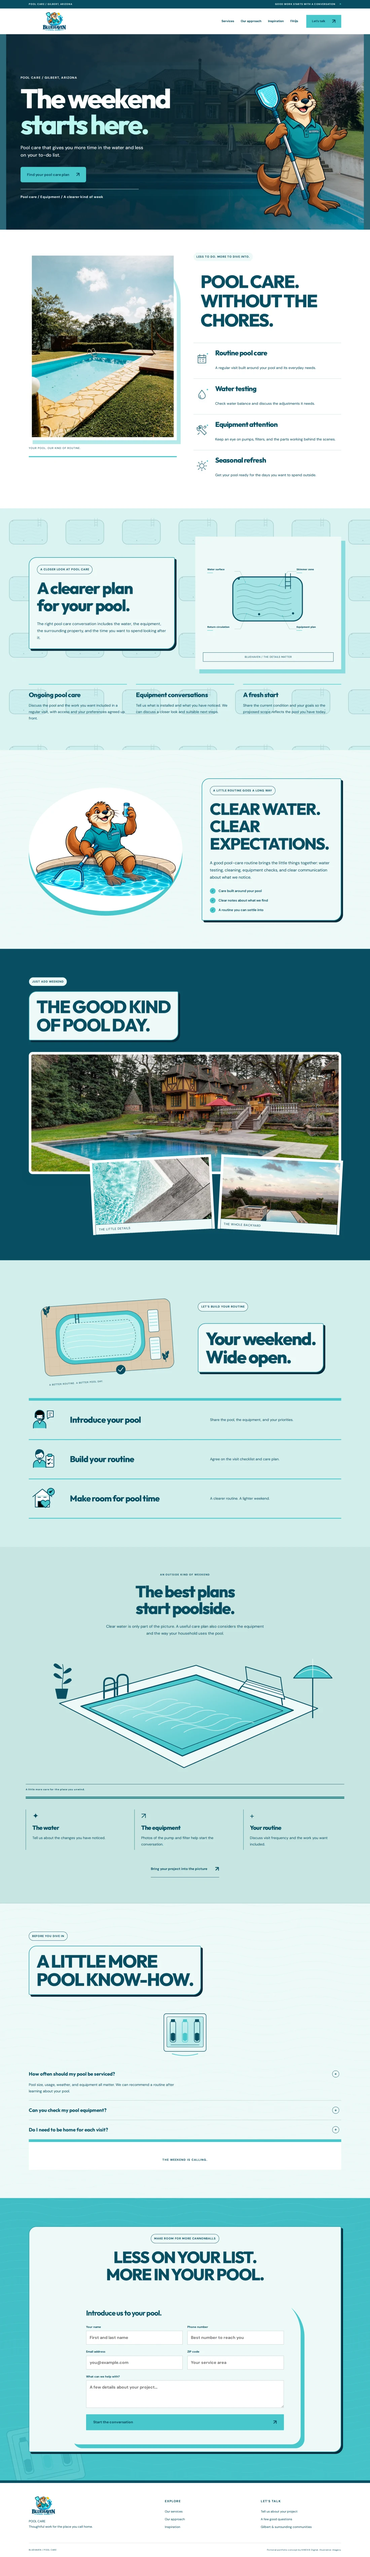
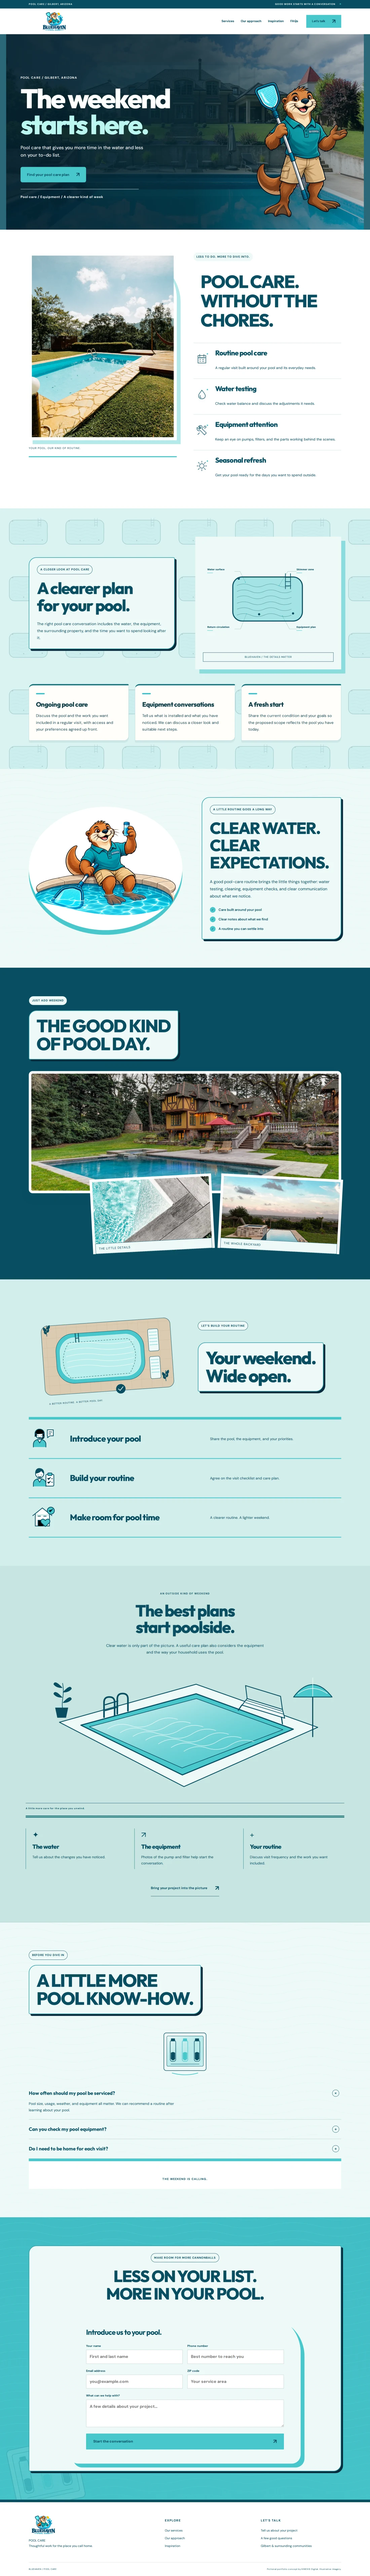
Update three portfolio designs

Changed region(s): [[0.0, 0.0, 1.0, 0.9984], [0.0927, 0.9672, 0.1545, 0.9984], [0.8964, 0.8112, 0.9273, 0.8424]]

diff --git a/src/data/portfolio.ts b/src/data/portfolio.ts
@@ -21,7 +21,7 @@ export type Project = {
 };
 
 export const PROJECTS: Project[] = [
-  { slug: "bluehaven-pool-care", name: "Bluehaven Pool Care", trade: "Pool Care", group: "Outdoor Living", kind: "custom", image: "/portfolio/bluehaven-pool-care.webp", deviceImage: "/portfolio/bluehaven-pool-care-devices.webp", width: 1100, height: 7596 },
+  { slug: "bluehaven-pool-care", name: "Bluehaven Pool Care", trade: "Pool Care", group: "Outdoor Living", kind: "custom", image: "/portfolio/bluehaven-pool-care.webp", deviceImage: "/portfolio/bluehaven-pool-care-devices.webp", width: 1100, height: 7651 },
   { slug: "breezeway-hvac", name: "Breezeway HVAC", trade: "Heating & Cooling", group: "Home Services", kind: "custom", image: "/portfolio/breezeway-hvac.webp", deviceImage: "/portfolio/breezeway-hvac-devices.webp", width: 1100, height: 6822 },
   { slug: "copperline-plumbing", name: "Copperline Plumbing", trade: "Plumbing", group: "Home Services", kind: "custom", image: "/portfolio/copperline-plumbing.webp", deviceImage: "/portfolio/copperline-plumbing-devices.webp", width: 1100, height: 7213 },
   { slug: "volterra-electric", name: "Volterra Electric", trade: "Electrical", group: "Home Services", kind: "custom", image: "/portfolio/volterra-electric.webp", deviceImage: "/portfolio/volterra-electric-devices.webp", width: 1100, height: 6229 },
@@ -45,7 +45,7 @@ export const PROJECTS: Project[] = [
   { slug: "highline-pest", name: "Highline Pest", trade: "Pest Management", group: "Home Services", kind: "template", image: "/portfolio/highline-pest.webp", deviceImage: "/portfolio/highline-pest-devices.webp", width: 1100, height: 6440 },
   { slug: "northstar-moving", name: "Northstar Moving", trade: "Local Moving", group: "Home Services", kind: "template", image: "/portfolio/northstar-moving.webp", deviceImage: "/portfolio/northstar-moving-devices.webp", width: 1100, height: 6602 },
   { slug: "harborline-gutters", name: "Harborline Gutters", trade: "Gutter Systems", group: "Home Services", kind: "template", image: "/portfolio/harborline-gutters.webp", deviceImage: "/portfolio/harborline-gutters-devices.webp", width: 1100, height: 6200 },
-  { slug: "brass-and-bell-plumbing", name: "Brass & Bell", trade: "Plumbing", group: "Home Services", kind: "template", image: "/portfolio/brass-and-bell-plumbing.webp", deviceImage: "/portfolio/brass-and-bell-plumbing-devices.webp", width: 1100, height: 4650 },
+  { slug: "brass-and-bell-plumbing", name: "Brass & Bell", trade: "Plumbing", group: "Home Services", kind: "template", image: "/portfolio/brass-and-bell-plumbing.webp", deviceImage: "/portfolio/brass-and-bell-plumbing-devices.webp", width: 1100, height: 4639 },
   { slug: "red-oak-roofing", name: "Red Oak Roofing", trade: "Roofing", group: "Home Services", kind: "template", image: "/portfolio/red-oak-roofing.webp", deviceImage: "/portfolio/red-oak-roofing-devices.webp", width: 1100, height: 4699 },
   { slug: "union-electric-co", name: "Union Electric Co.", trade: "Electrical", group: "Home Services", kind: "template", image: "/portfolio/union-electric-co.webp", deviceImage: "/portfolio/union-electric-co-devices.webp", width: 1100, height: 4623 },
   { slug: "fieldstone-masonry", name: "Fieldstone Masonry", trade: "Masonry", group: "Design & Build", kind: "template", image: "/portfolio/fieldstone-masonry.webp", deviceImage: "/portfolio/fieldstone-masonry-devices.webp", width: 1100, height: 4926 },
@@ -56,7 +56,7 @@ export const PROJECTS: Project[] = [
 export const PROJECT_GROUPS = ["Home Services", "Outdoor Living", "Design & Build", "Cleaning"];
 
 /** Screenshot files keep their paths. This query changes when those files are replaced, because they are cached for a year. */
-export const PORTFOLIO_ASSET_VERSION = "22";
+export const PORTFOLIO_ASSET_VERSION = "23";
 
 export function portfolioFile(image: string, width: 640 | 1100 = 1100) {
   const file = width === 640 ? image.replace(/\.webp$/, "-640.webp") : image;
